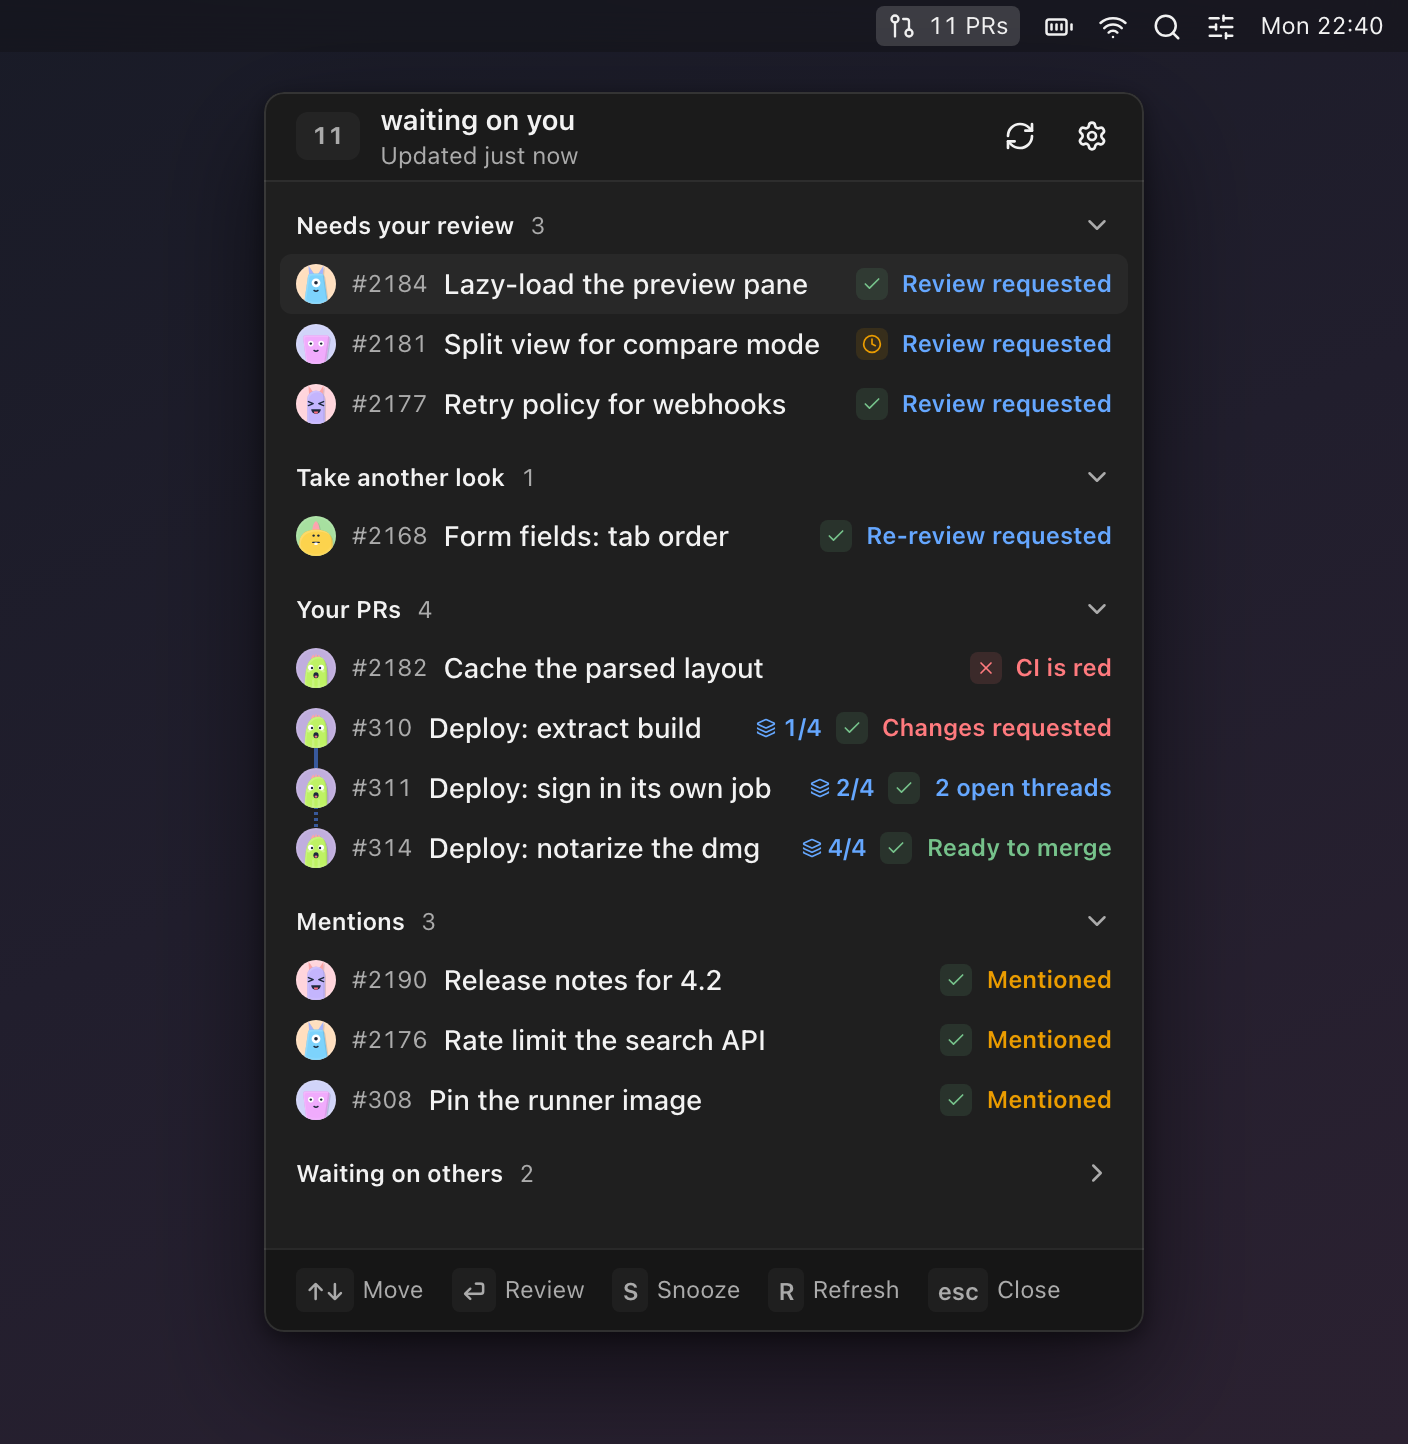
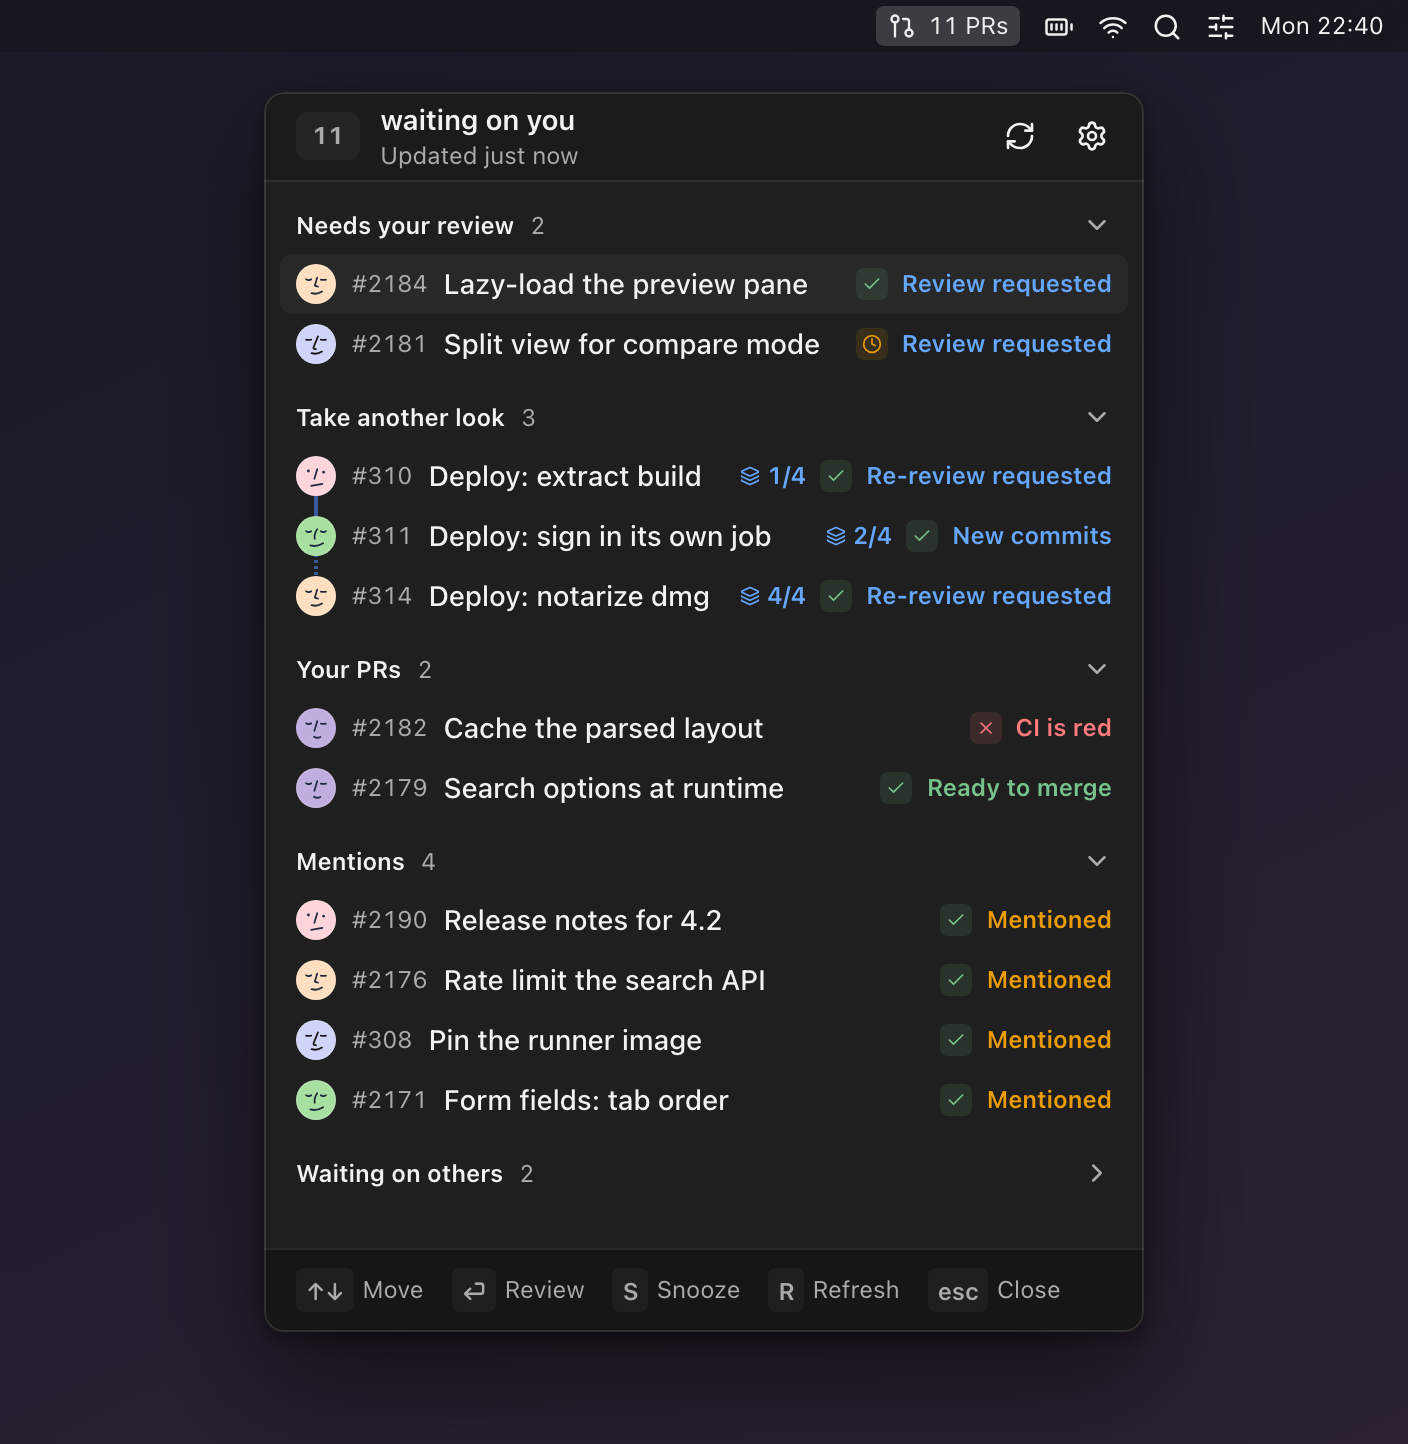
Quieter faces, and a demo that isn't three quarters your own PRs
`critters` were too busy for a picture people look at rather than use, so
the cast is DiceBear `line-face` now: quiet line art, and the strokes sit
on a light disc rather than on transparency, which is what lets one set of
URLs work in both colour modes.

The section balance was also wrong. "Your PRs" carried the stack and four
of the eight visible rows, all of them the user's own — one avatar repeated
down half the window. The stack moves to "Take another look", where it also
gets two different reasons instead of one, and "Your PRs" keeps two rows
that say different things: a red build and something ready to merge.

The stack's three members now have three different authors. A chain is
grouped by its branches and never by who wrote them, so this is a shape the
classifier really produces — and one person's face three rows running reads
as a rendering fault rather than as a stack.

diff --git a/src/renderer/src/test/demo-inbox.ts b/src/renderer/src/test/demo-inbox.ts
@@ -19,12 +19,16 @@ const HOUR_MS = 60 * MINUTE_MS
 const ME = 'vlad'
 
 /**
- * A face per person, from DiceBear's `critters` — CC0, so nothing here owes
+ * A face per person, from DiceBear's `line-face` — CC0, so nothing here owes
  * an attribution line. The login is the seed, so everyone gets their own
- * creature; `background` is pinned rather than left to the seed, because two
- * of them otherwise land on the same purple two rows apart.
+ * face; the background is pinned rather than left to the seed, whose whole
+ * palette is a muted beige that reads as five copies of one avatar.
+ *
+ * The style also survives both colour modes without a second set of URLs:
+ * the strokes are dark, but they sit on a light disc rather than on
+ * transparency, so nothing disappears into the dark theme.
  */
-const AVATAR_STYLE = 'critters'
+const AVATAR_STYLE = 'line-face'
 
 const CAST = {
   vlad: 'c0aede',
@@ -93,32 +97,51 @@ const ROWS: DemoRow[] = [
     waitingMinutes: 2 * 60,
     stack: null,
   },
+  // A stack of four, three of which need the user — so the run draws solid
+  // between 1 and 2 and dotted where 3 is missing. Three different authors,
+  // because a chain is grouped by its branches and not by who wrote them, and
+  // one person's avatar three rows running looks like a rendering fault.
   {
-    repository: 'acme/api',
-    number: 2177,
-    title: 'Retry policy for webhooks',
+    repository: 'acme/infra',
+    number: 310,
+    title: 'Deploy: extract build',
     author: 'rojas',
-    additions: 96,
-    deletions: 41,
-    ci: 'success',
-    category: 'needs-review',
-    reason: 'Review requested',
-    waitingMinutes: 6 * 60,
-    stack: null,
-  },
-  {
-    repository: 'acme/web-app',
-    number: 2168,
-    title: 'Form fields: tab order',
-    author: 'tpark',
-    additions: 64,
-    deletions: 28,
+    additions: 218,
+    deletions: 140,
     ci: 'success',
     category: 're-review',
     reason: 'Re-review requested',
-    waitingMinutes: 26 * 60,
-    stack: null,
+    waitingMinutes: 5 * 60,
+    stack: ['stack-infra', 1, 4],
   },
+  {
+    repository: 'acme/infra',
+    number: 311,
+    title: 'Deploy: sign in its own job',
+    author: 'tpark',
+    additions: 96,
+    deletions: 12,
+    ci: 'success',
+    category: 're-review',
+    reason: 'New commits',
+    waitingMinutes: 8 * 60,
+    stack: ['stack-infra', 2, 4],
+  },
+  {
+    repository: 'acme/infra',
+    number: 314,
+    title: 'Deploy: notarize dmg',
+    author: 'mchen',
+    additions: 41,
+    deletions: 9,
+    ci: 'success',
+    category: 're-review',
+    reason: 'Re-review requested',
+    waitingMinutes: 9 * 60,
+    stack: ['stack-infra', 4, 4],
+  },
+  // Two rows only: they are all the user's own, so a third would just repeat
+  // the same avatar again.
   {
     repository: 'acme/api',
     number: 2182,
@@ -132,46 +155,18 @@ const ROWS: DemoRow[] = [
     waitingMinutes: 3 * 60,
     stack: null,
   },
-  // A stack of four, three of which need the user — so the run draws solid
-  // between 1 and 2 and dotted where 3 is missing.
   {
-    repository: 'acme/infra',
-    number: 310,
-    title: 'Deploy: extract build',
+    repository: 'acme/web-app',
+    number: 2179,
+    title: 'Search options at runtime',
     author: 'vlad',
-    additions: 218,
-    deletions: 140,
-    ci: 'success',
-    category: 'my-pr-action',
-    reason: 'Changes requested',
-    waitingMinutes: 5 * 60,
-    stack: ['stack-infra', 1, 4],
-  },
-  {
-    repository: 'acme/infra',
-    number: 311,
-    title: 'Deploy: sign in its own job',
-    author: 'vlad',
-    additions: 96,
-    deletions: 12,
-    ci: 'success',
-    category: 'my-pr-action',
-    reason: '2 open threads',
-    waitingMinutes: 8 * 60,
-    stack: ['stack-infra', 2, 4],
-  },
-  {
-    repository: 'acme/infra',
-    number: 314,
-    title: 'Deploy: notarize the dmg',
-    author: 'vlad',
-    additions: 41,
-    deletions: 9,
+    additions: 234,
+    deletions: 4,
     ci: 'success',
     category: 'my-pr-action',
     reason: 'Ready to merge',
-    waitingMinutes: 9 * 60,
-    stack: ['stack-infra', 4, 4],
+    waitingMinutes: 6 * 60,
+    stack: null,
   },
   {
     repository: 'acme/web-app',
@@ -210,6 +205,19 @@ const ROWS: DemoRow[] = [
     category: 'mentioned',
     reason: 'Mentioned',
     waitingMinutes: 7 * 60,
+    stack: null,
+  },
+  {
+    repository: 'acme/web-app',
+    number: 2171,
+    title: 'Form fields: tab order',
+    author: 'tpark',
+    additions: 64,
+    deletions: 28,
+    ci: 'success',
+    category: 'mentioned',
+    reason: 'Mentioned',
+    waitingMinutes: 12 * 60,
     stack: null,
   },
   {

diff --git a/AGENTS.md b/AGENTS.md
@@ -41,7 +41,7 @@ A case must not depend on the clock (pass the harness's `NOW`, never `new Date()
 
 `docs/screenshot-light.png` and `docs/screenshot-dark.png` are recorded the same way, by the separate `docs` project: `src/renderer/src/app.docs.test.tsx` renders the whole `App` over a drawn-on macOS menu bar (`test/desktop.tsx`) with an invented inbox behind it (`test/demo-inbox.ts`). Those PNGs *are* the baselines, so `npm test` reports documentation that has fallen behind the interface as a failing screenshot; `npm run docs:shots` brings it back in step, and the update lands in the pull request as an image diff.
 
-The faces come from DiceBear's CDN, which makes these two the one place in the suite that reaches the network — the component tests keep their inline `AVATAR_SRC`. The trade is deliberate: it is what the app itself does with a real GitHub avatar, and the cost is a red run while DiceBear is down. The test warms the images before it captures, because a missing avatar is a state the app draws rather than an error, and an unwarmed capture records empty circles without complaining. Keep to `critters` or another CC0 style unless you also add the attribution a CC BY one owes.
+The faces come from DiceBear's CDN, which makes these two the one place in the suite that reaches the network — the component tests keep their inline `AVATAR_SRC`. The trade is deliberate: it is what the app itself does with a real GitHub avatar, and the cost is a red run while DiceBear is down. The test warms the images before it captures, because a missing avatar is a state the app draws rather than an error, and an unwarmed capture records empty circles without complaining. Keep to `line-face` or another CC0 style unless you also add the attribution a CC BY one owes.
 
 The two differ only in colour mode and layout — light comfortable, dark compact — so the pair says what the compact setting buys. Everything the fixture shows must be something `classify` could really produce; a demo that invents its own reasons advertises an app that doesn't exist.
 
